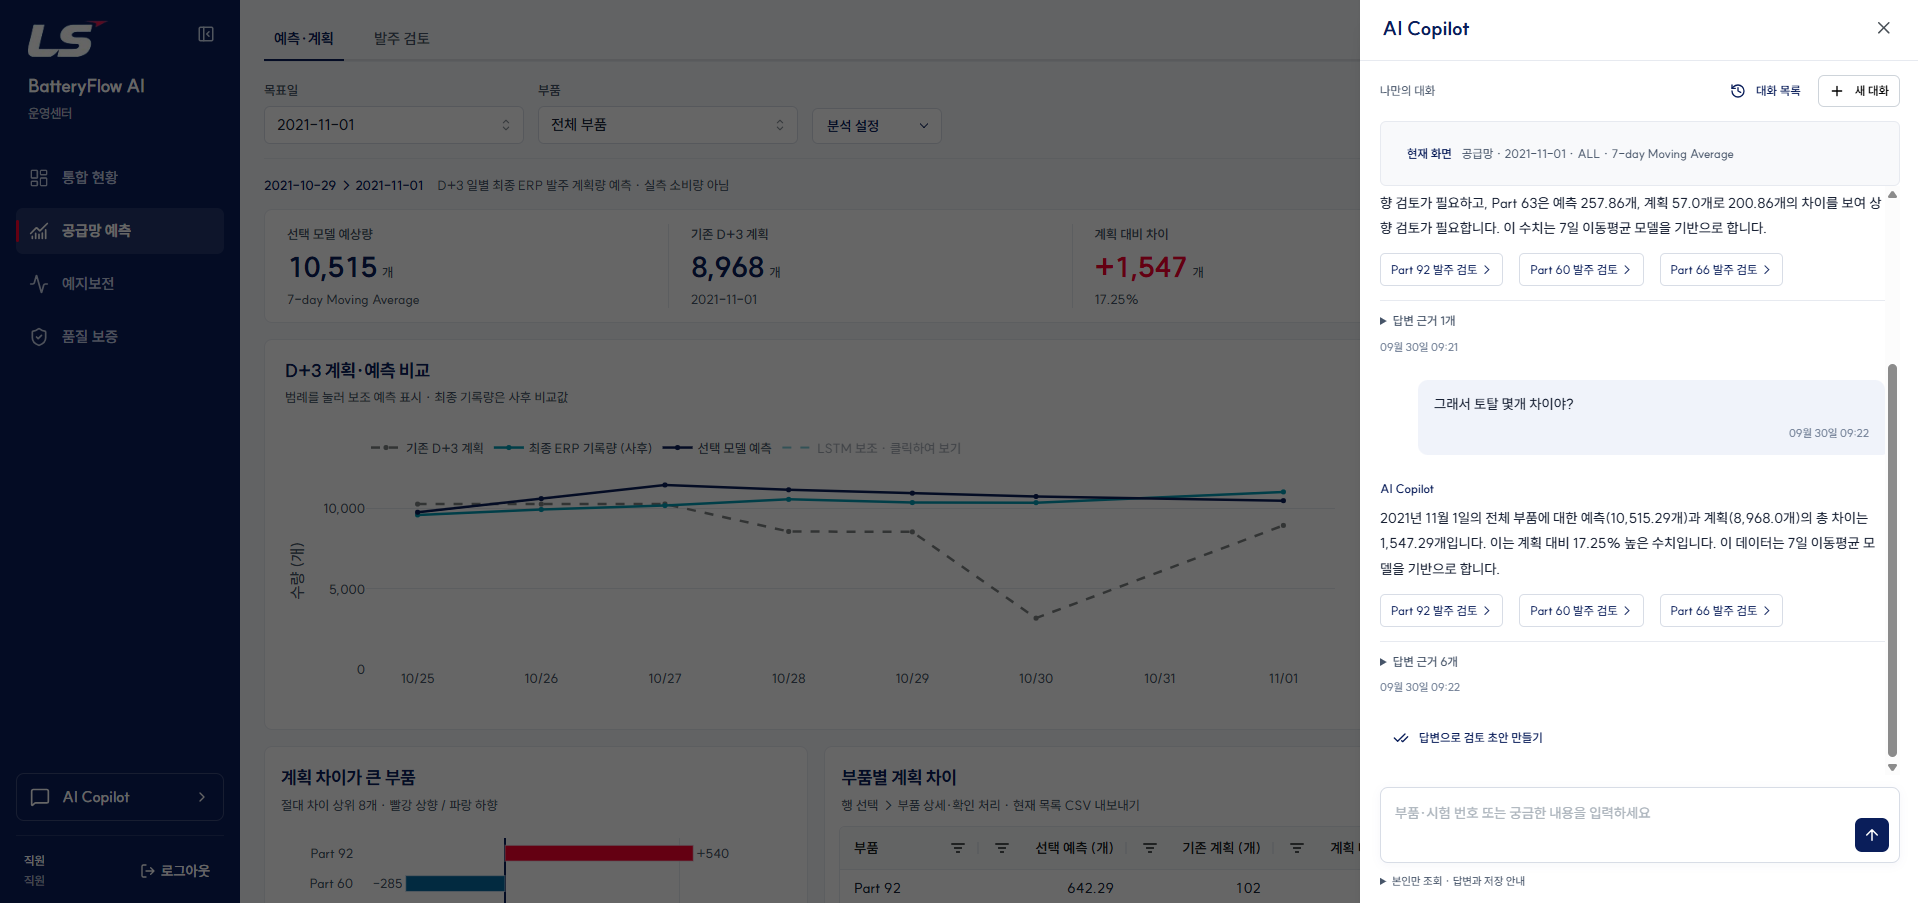
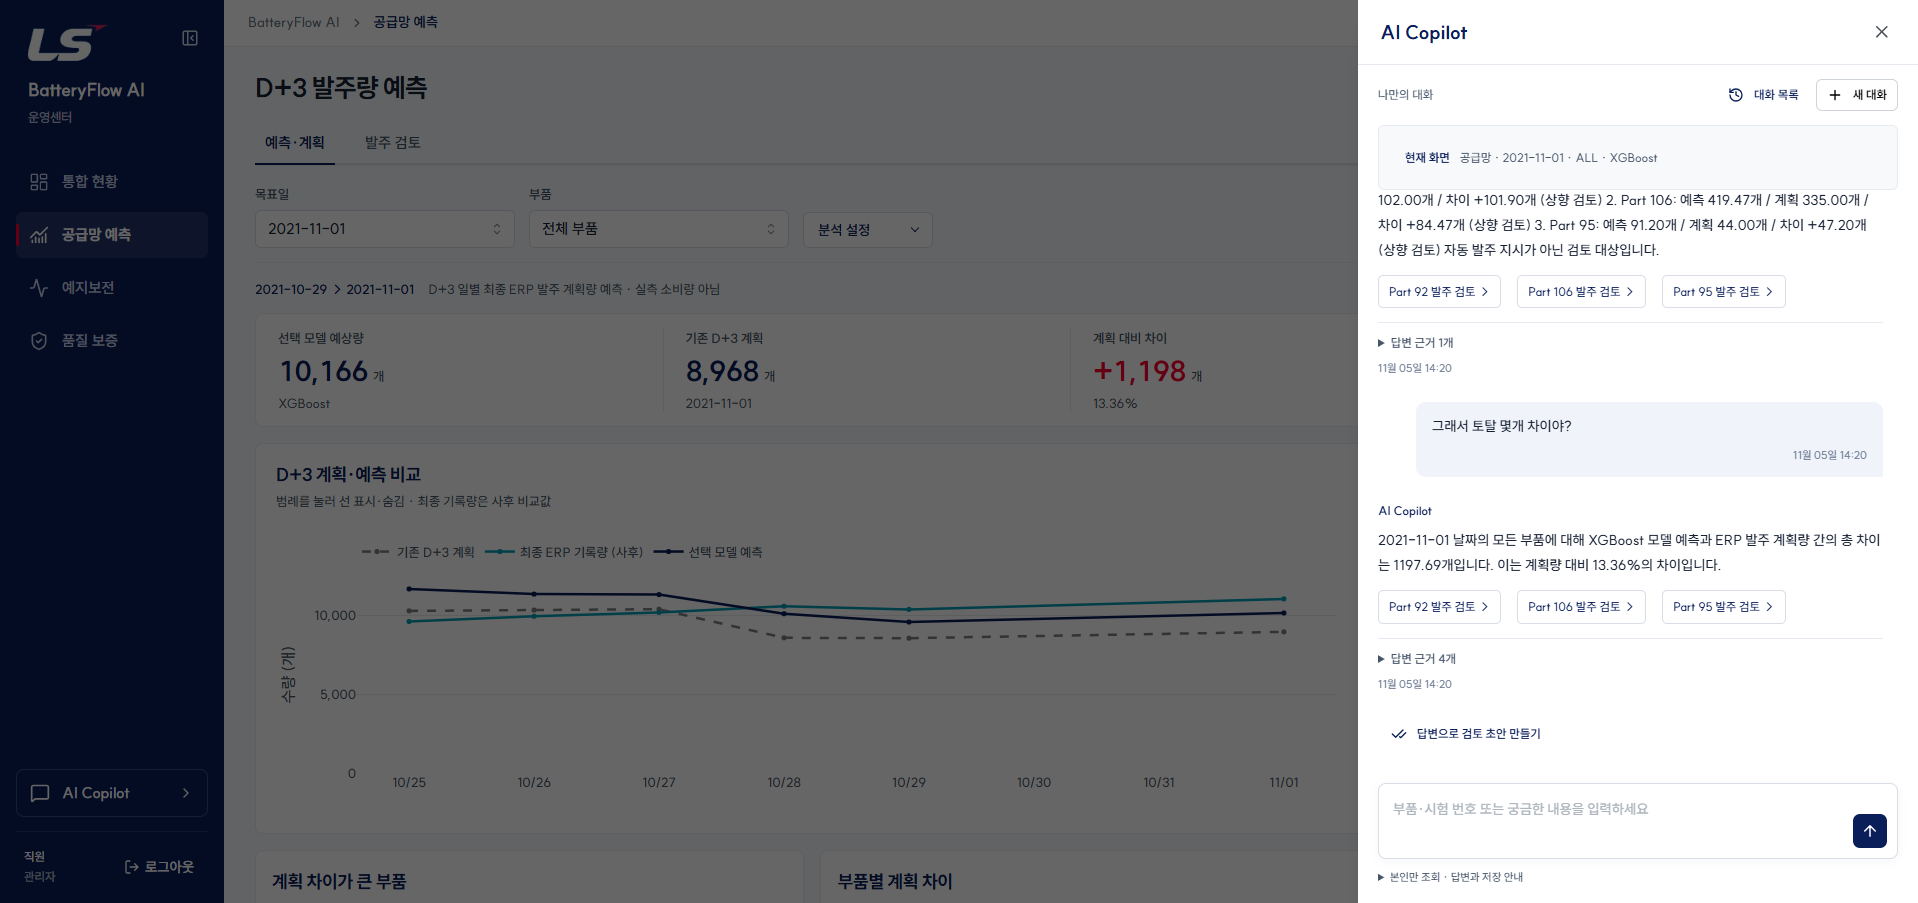
Show v3 Copilot ranking and screenshots in README and portfolio notes
The README Copilot section and the portfolio summary still showed the
audited_v2 ranking (Part 92, 60, 66: +540.29 / -284.86) and pre-switch
screenshots (7-day average 476, Copilot total gap 1,547.29).

- Ranking is now the v3 result for 2021-11-01: Part 92 +101.90, Part 106
  +84.47, Part 95 +47.20 (XGBoost minus D+3 plan).
- portfolio_notes/assets screenshots replaced with the v3 captures used on
  the portfolio site (demand screen in local trial mode; live Copilot answer
  with total gap 1,197.69 / 13.36%); captions say when and how they were
  taken.
- portfolio_notes/evidence/ranking_v3_2021-11-01.json added; the v2
  ranking audit stays as a record.
- GITHUB_DESCRIPTION.txt no longer advertises the LSTM / moving-average
  comparison.

diff --git a/README.md b/README.md
@@ -15,7 +15,7 @@ KAMP 제조 데이터를 활용한 공급망·예지보전·품질 분석 플랫
 
 ![공급망 예측 화면](portfolio_notes/assets/demand-dashboard.png)
 
-*부품·목표일별 예측과 기존 D+3 계획을 비교하는 화면. 팀 개발 최종 화면의 보존 캡처입니다.*
+*부품·목표일별 예측과 기존 D+3 계획을 비교하는 화면. Part 92 · XGBoost 204개 vs 기존 계획 102개 (2021-11-01). 2026-11-05 v3 전환 후 로컬 체험 모드 캡처입니다.*
 
 ## 제가 해결한 문제
 
@@ -66,11 +66,11 @@ KAMP 제조 데이터를 활용한 공급망·예지보전·품질 분석 플랫
 
 Copilot은 공식 분석 자료에서 수치를 조회하고, FastEmbed·FAISS로 관련 문서를 검색해 Gemini API에 답변 근거를 전달합니다. 순위와 핵심 수치 문장은 서버에서 확정합니다. **차이 절댓값 내림차순 → 동률이면 부품 번호 오름차순**을 API와 Copilot이 공유합니다.
 
-2021-11-01 기준 검증 결과는 **Part 92 → Part 60 → Part 66**, 차이는 **+540.29 / −284.86 / −284.86개**입니다. 입력 순서를 바꾸거나 상위 3개 경계에서 동률이 발생해도 규칙을 유지하는지 검사했습니다.
+2021-11-01 결과는 **Part 92 → Part 106 → Part 95**, 차이는 **+101.90 / +84.47 / +47.20개**입니다(XGBoost 예측 − 기존 D+3 계획). 입력 순서를 바꾸거나 상위 3개 경계에서 동률이 발생해도 규칙을 유지하는지 검사했습니다.
 
 ![Copilot의 근거와 후속 질문](portfolio_notes/assets/copilot-followup.png)
 
-*저장된 분석 자료에 근거한 합계 설명과 검토 링크. 팀 개발 최종 화면의 보존 캡처입니다.*
+*상위 3개 순위 답변에 이어 전체 합계 차이(1,197.69개, 13.36%)를 설명하고 검토 링크를 제시하는 화면. 2026-11-05 라이브 서비스 캡처입니다.*
 
 ### 5. 분석 근거와 안전한 검토 기록 연결
 
